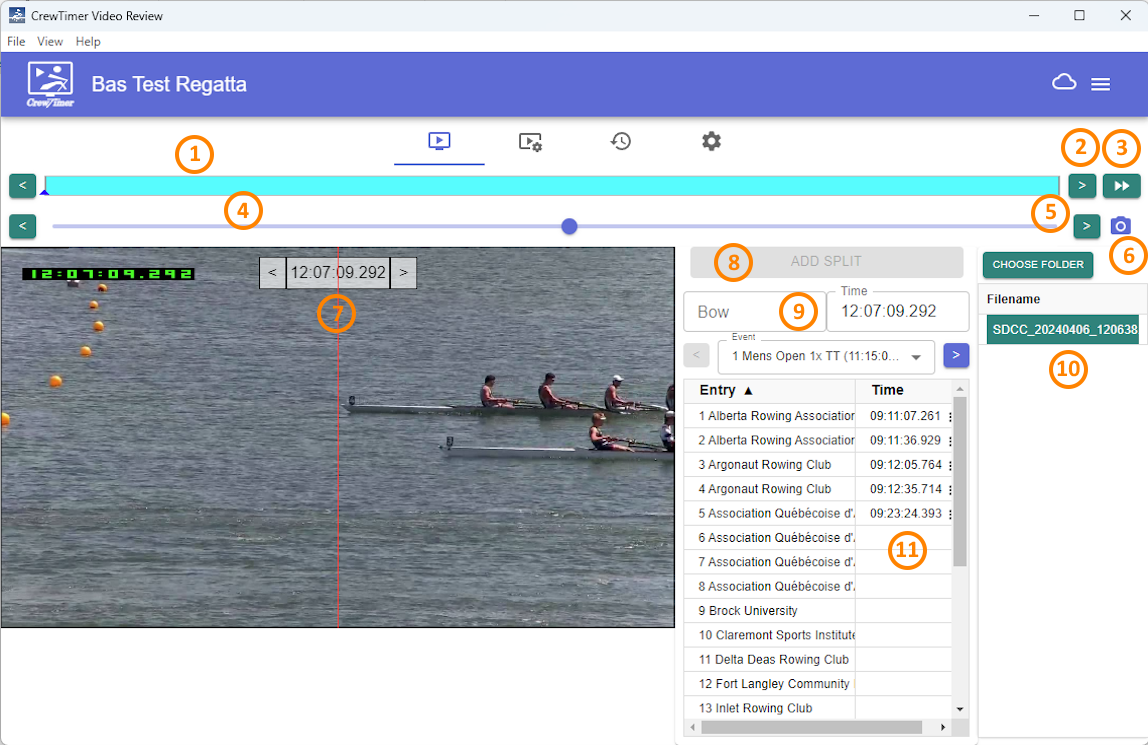
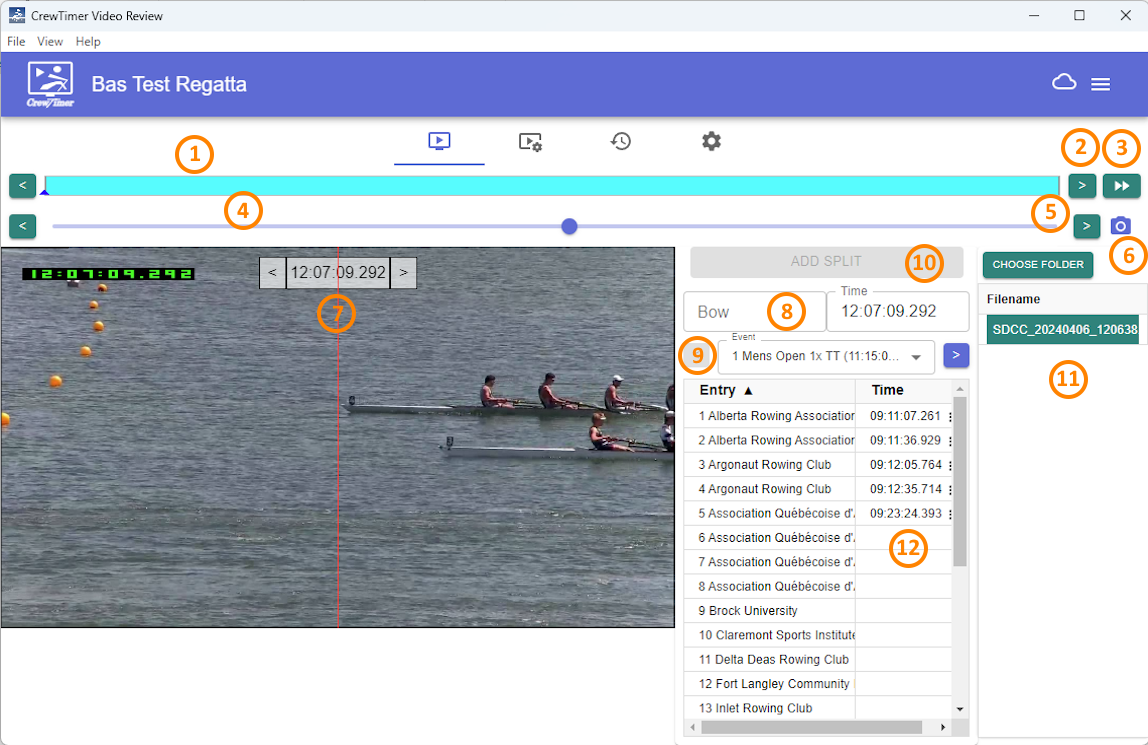
Update to video-review based on feedback

diff --git a/video-review/ReviewingVideo.md b/video-review/ReviewingVideo.md
@@ -6,7 +6,7 @@ The CrewTimer Video Review module provides the ability to process finish line re
 
 CrewTimer Video Review makes processing the results highly efficient by integrating "hints" from other CrewTimer stations into the workflow.
 
-It is strongly recommended to test the full suite of hardware, software, and volunteers before your actual regatta. Although the overall process is not complicated, it is more involved then operating a clicker or Add Split button on the CrewTimer Mobile App.
+It is strongly recommended to test the full suite of hardware and software before your actual regatta. Although the overall process is not complicated, it is more involved then operating a clicker or Add Split button on the CrewTimer Mobile App.
 
 ## Getting started
 
@@ -54,12 +54,12 @@ Your setting will likely look like the below:
 
 You have a few other options to review that can help you process your results faster.
 
-- [ ] Select the "Video Settings" tab in the main Connect window (the playback + gear icon)
+- [ ] Select the "Video Settings" tab in the main window (the playback + gear icon, the second from the left)
 - [ ] If you are reviewing the video in a different timezone than where the regatta is, you can set the "Course Timezone" to where the event is taking place. This will ensure that timestamps are shown in the local timezone for where the event takes place. This is very convenient when you are looking at the times on a race schedule or heat sheet.
-- [ ] The "Mouse Wheel Factor" adjusts the sensitivity of the mouse wheel in relation to frame scrolling. Higher numbers provided finer control if you are seeing multi-frame jumps for each wheel click. Adjust this to fit your workflow.  For windows, 100 seems to work well while on MacOS, 4 works well.
+- [ ] The "Mouse Wheel Factor" adjusts the sensitivity of the mouse wheel in relation to frame scrolling. Higher numbers provide finer control if you are seeing multi-frame jumps for each wheel click. Adjust this to fit your workflow.  For windows, 100 seems to work well while on MacOS, 4 works well.
 - [ ] Probably the only other setting you want to make is to select "Finish" in the "Guide Visibility" section
 
-The remaining options allow you to control whether lane lines are visible in the scoring user interface. The advanced features section covers it's use. Your setting will look like the below:
+The remaining options allow you to control whether lane guides are visible in the scoring user interface. The advanced features section covers it's use. Your setting will look like the below:
 
 ![image-20240602183715237](assets/image-20240602183715237.png)
 
@@ -67,7 +67,7 @@ The remaining options allow you to control whether lane lines are visible in the
 
 Before you can use the video review features, you need to let the software know where the video files can be found. The software will monitor this directory for any new files. When a new file is generated by the capture software, the file will automatically be added to the file list.
 
-- [ ] Select the "Video Review" tab in the main Connect window (the leftmost icon)
+- [ ] Select the "Video Review" tab in the main window (the leftmost icon)
 - [ ] Select the "CHOOSE FOLDER" button in the top right corner of the interface
 
 ![image-20240601174018477](assets/image-20240601174018477.png)
@@ -89,10 +89,11 @@ We will start with an overview of the main User Interface to get you familiar:
 5. Previous | Next Frame
 6. Save Screenshot
 7. Timestamp | Previous | Next Frame
-8. Assign Split
-9. Assign Bow
-10. File Selector
-11. Assigned Timestamps
+8. Assign Bow
+9. Select Event
+10. Assign Split
+11. File Selector
+12. Assigned Timestamps
 
 ### (1) Video Timeline
 
@@ -117,7 +118,7 @@ This is very helpful in the normal finishline workflow. As you see boats approac
 
 ### (4) Video Scrub
 
-The blue dot can be selected with the mouse and dragged left and right. Or, you can left click a position on the timeline with your mouse to jump there. This is your primary method for quick navigation within a video file.
+The blue dot can be selected with the mouse and dragged left and right. Or, you can click the left mouse button on a position on the timeline to jump there. This is your primary method for quick navigation within a video file.
 
 Note that when your current video file has CrewTimer hints, they will also show here:
 
@@ -143,9 +144,23 @@ This panel show the timestamp associated with the current video frame. This is t
 
 The arrow buttons can be used to move between video frames
 
-### (8) Assign Split
+### (8) Assign Bow
 
-To assign a split there are three things that you need to be set or check
+This is where you enter the bow number. You can do this several ways:
+
+- [ ] Enter the bow number into the field directly
+- [ ] Click the "ENTRY" for the bow number in the event list
+- [ ] Click on the video between lane guides (if using lane guides)
+
+#### (9) Select Event
+
+You select the event that you want to score from the dropdown or move to the previous or next event with the arrows to the side.
+
+![image-20240602110317753](assets/image-20240602110317753.png)
+
+### (10) Assign Split
+
+To assign a split there are three things that need to be set:
 
 - [ ] Make sure you have selected the frame that best reflects the time the boat crossed the finish line
 - [ ] Make sure the correct event is selected
@@ -154,35 +169,25 @@ To assign a split there are three things that you need to be set or check
 
 As soon as you do this, it will be reflected on the CrewTimer website, like any other CrewTimer timing signal.
 
-Please note that "EVENT" and "BOW" might have been pre-populated when you clicked the market in the timeline.
+Please note that "EVENT" and "BOW" might have been pre-populated when you clicked the marker in the timeline.
 
-### (9) Assign Bow
-
-This is where you enter the bow number. You can do this several ways:
-
-- [ ] Enter the bow number into the field directly
-- [ ] Click the "ENTRY" for the bow number in the event list
-- [ ] Click on the video between lane guides (if using lane guides)
-
-### (10) File Selector
+### (11) File Selector
 
 Another way to select the file you want to look at, is by selecting it from the file list. This can be useful if you have the time in the filename and you want to quickly jump to a given time.
 
 The more common use is to delete files without any finishes from there. It's common that you have recordings from periods without finishes, for review and data storage considerations, it's recommended to delete them whenever there is some time available. Deleting a file is straight forward:
 
 - [ ] Review the "VIDEO TIMELINE" for any files that do now show any results
-- [ ] Select the segment in the "VIDEO TIMELINE", this highlight the video in the "FILE SELECTOR"
-- [ ] Right click on the file in question (it should be highlighted in blue) and select "DELETE"
+- [ ] Select the segment in the "VIDEO TIMELINE", this will highlight the video in the "FILE SELECTOR"
+- [ ] Right click the mouse button on the file in question (the file should be highlighted) and select "DELETE"
 
 ![image-20240602104450606](assets/image-20240602104450606.png)
 
 - [ ] Confirm the delete action if you are sure this the file you want to remove
 
-### (11) Assigned Timestamps
+### (12) Assigned Timestamps
 
-After you start scoring races, your assigned times will start to show here. You can switch between events by using the dropdown, or move to the next | previous event with the buttons on the side:
-
-![image-20240602110317753](assets/image-20240602110317753.png)
+After you start scoring races, your assigned times will start to show here. 
 
 If you want to remove a timestamp, click on the triple dot and select "DELETE":
 
@@ -194,7 +199,7 @@ You will be asked to confirm that you want to delete this timestamp:
 
 #### Jumping to scored entries
 
-A very handy feature is the ability to jump to the exact frame of a video for the finish time you recorded. This is handy when you have a set of close finishes that the umpire wants to review. You can keep scoring while the rest of the race finishes. When it's time to show them the playback, you click the timestamp and the video recorded at that moment will open.
+By clicking an already scored entry in the event list, the software will open the exact time in the video for the entry. This can be be very useful in facilitating close finish reviews after a race completed.
 
 #### Sorting by finish time
 
@@ -206,7 +211,7 @@ This can be done in the CrewTimer admin portal as well. But a quick way to revie
 
 #### Zoom
 
-When reviewing the video it can be helpful to zoom into a bow ball of a boat. This done by placing the mouse cursor on the point of interest, pressing the left mouse button and dragging the mouse down. This can be repeated a few time to achieve the desired amount of zoom:
+When reviewing the video it can be helpful to zoom into a bow ball of a boat. This is done by placing the mouse cursor on the point of interest, pressing the left mouse button and dragging the mouse down. This can be repeated a few time to achieve the desired amount of zoom:
 
 ![image-20240602203828239](assets/image-20240602203828239.png)
 
@@ -224,9 +229,9 @@ When you drag the top marker, the line moves in it's entirety. When you move the
 
 ![image-20240602204657986](assets/image-20240602204657986.png)
 
-The undo any introduced angle, press and hold SHIFT while moving either marker.
+To undo any introduced angle, press and hold SHIFT while moving either marker.
 
-To bring the finish line back to the center, go back into the "Video Settings" and press the "RESET FINISH" button.
+To bring the finish line back to the center and undo any angle, go back into the "Video Settings" and press the "RESET FINISH" button.
 
 #### Interpolated finish times
 
@@ -245,11 +250,11 @@ After doing this, the calculated time will show below the video timestamp. In th
 
 Double clicking the image will reset the blue lines.
 
-#### Using lane lines
+#### Using lane guides
 
-The software allows you to place lane lines. When you click between the lane lines, the software will populate the bow number based on the information you provided.
+The software allows you to place lane guides. When you click between the lane guides, the software will populate the bow number based on the information you provided.
 
-When lane guides are enabled, they can be adjusted in a manner similar to the finish line by clicking and dragging the end points:
+When lane guides are enabled, they can be adjusted in a manner similar to the finish guide by clicking and dragging the end points:
 
 ![image-20240603082612026](assets/image-20240603082612026.png)
 
